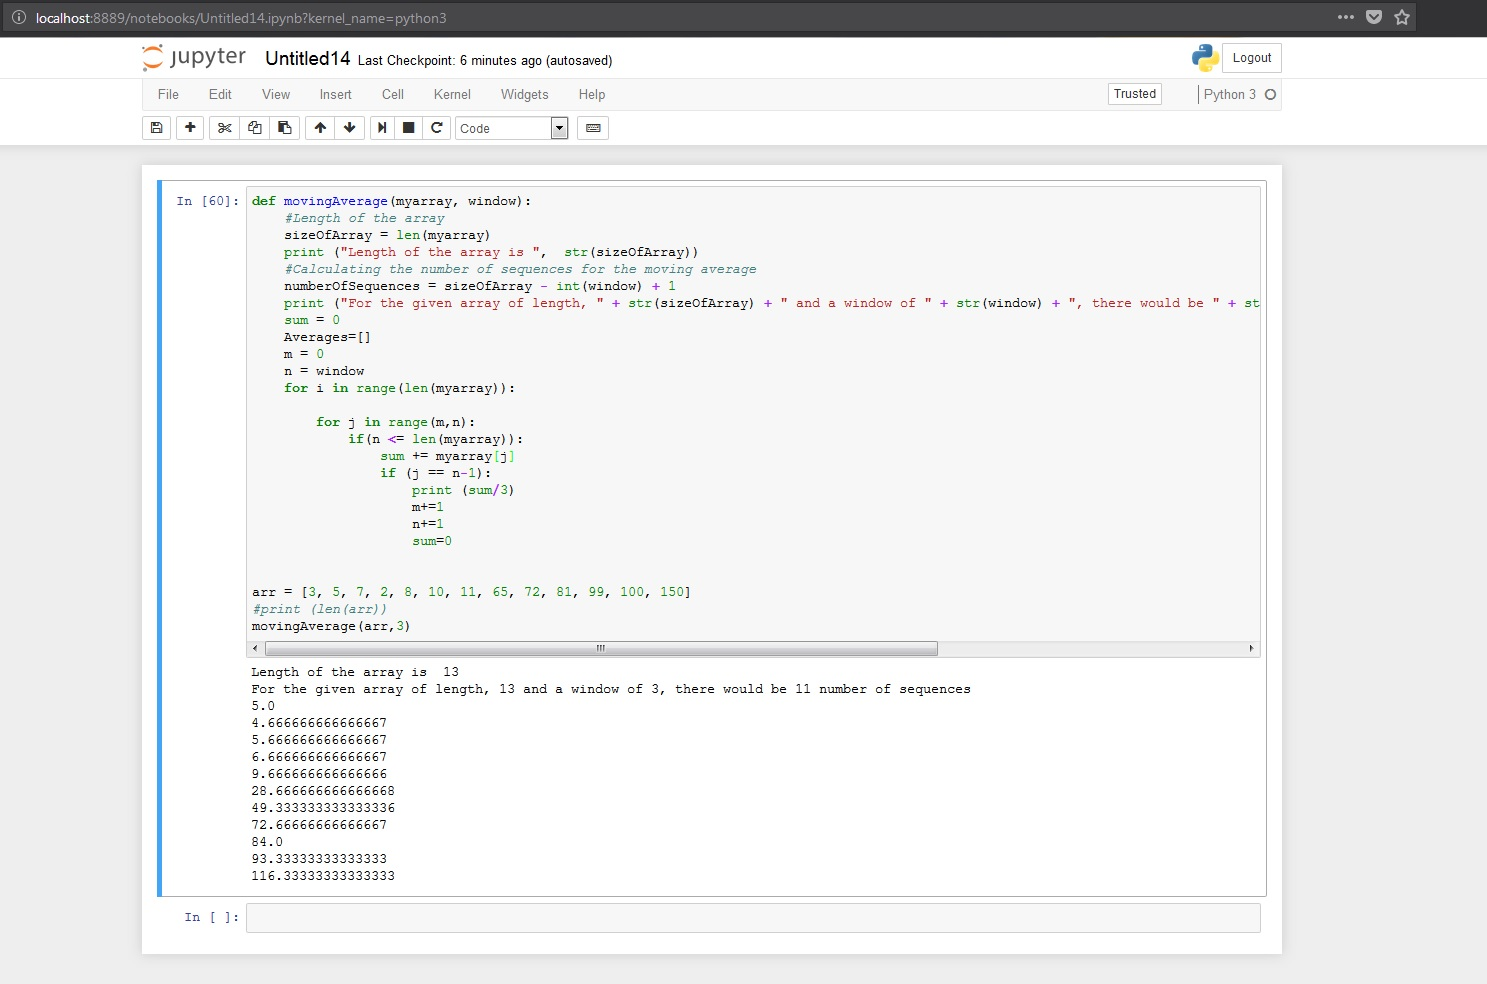
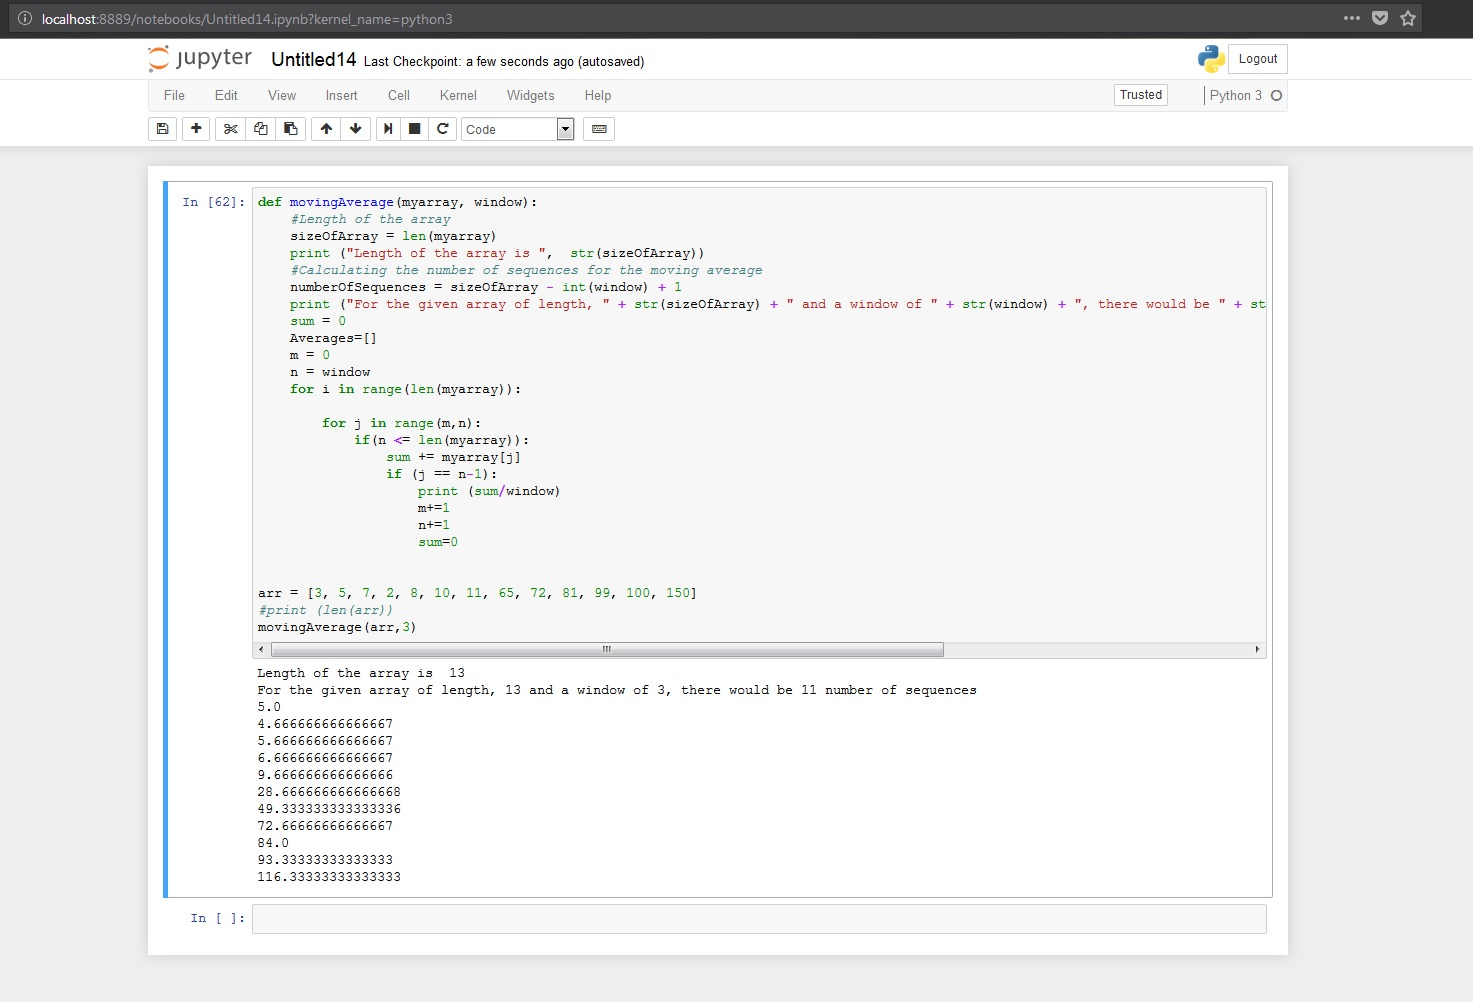
Removed the hardcoded value

diff --git a/Assignment_10.1.py b/Assignment_10.1.py
@@ -15,7 +15,7 @@ def movingAverage(myarray, window):
             if(n <= len(myarray)):
                 sum += myarray[j]
                 if (j == n-1):
-                    print (sum/3)
+                    print (sum/window)
                     m+=1
                     n+=1
                     sum=0
